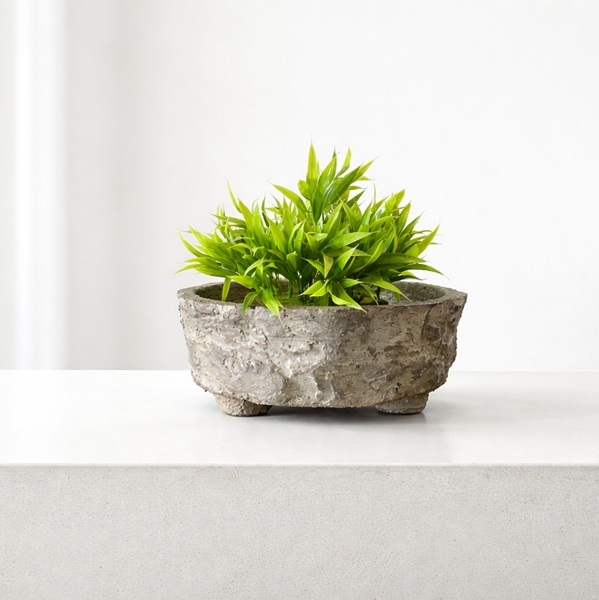
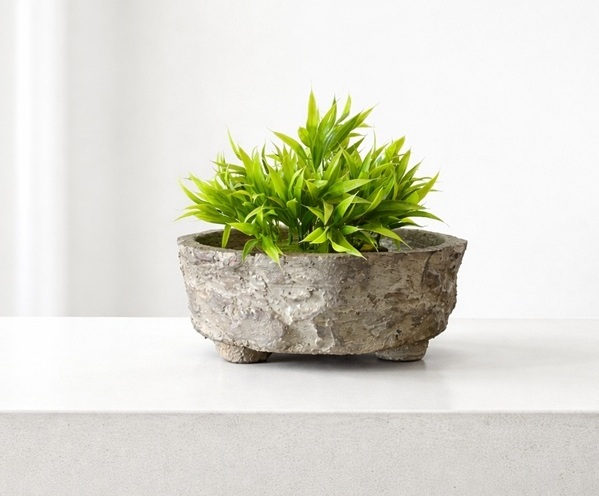
Add bespoke products

Changed region(s): [[0.0, 0.1815, 1.0, 0.8468], [0.601, 0.998, 0.6311, 1.0]]

diff --git a/index.html b/index.html
@@ -106,6 +106,14 @@
                 >Bespoke</a
               >
             </li>
+            <li class="nav-item">
+              <a
+                class="nav-link text-capitalize alt-font"
+                role="menuitem"
+                href="#footer"
+                >Contact</a
+              >
+            </li>
           </ul>
         </div>
         <div class="nav-icon d-flex gap-4" role="search">
@@ -659,7 +667,7 @@
       </section>
 
       <!-- Bespoke Creations -->
-      <section class="bespoke bg-section section-padding" id="bespoke">
+      <section class="home-decor bg-section section-padding" id="bespoke">
         <div class="container py-5 px-5">
           <div class="row justify-content-center">
             <div class="main-title text-center mb-5">
@@ -668,36 +676,15 @@
             </div>
           </div>
 
-          <div class="row d-flex justify-content-evenly g-4">
+          <div class="row d-flex justify-content-evenly g-4 section-padding">
             <div class="col-lg-4 col-md-6 col-12">
               <div
                 class="home-decor-content d-flex pb-4 pb-lg-0 justify-content-center gap-5"
               >
                 <div class="card h-100">
-                  <div
-                    class="card-footer d-flex justify-content-between align-items-center"
-                  >
-                    <div class="head-decor-date">
-                      <a href="#"
-                        ><h6 class="text-sec-color m-0 text-small">
-                          24 February 2020
-                        </h6></a
-                      >
-                    </div>
-                    <div class="head-decor-icon d-flex gap-3 text-extra-small">
-                      <a href="#"
-                        ><span><i class="fa-regular fa-heart"></i> 28</span></a
-                      >
-                      <a href="#"
-                        ><span
-                          ><i class="fa-regular fa-comment"></i> 52</span
-                        ></a
-                      >
-                    </div>
-                  </div>
                   <div class="middle-img position-relative">
                     <img
-                      src="./imgs/blog-img84.jpg"
+                      src="./cimgs/housename.jpg"
                       class="img-fluid"
                       alt="Furniture"
                     />
@@ -726,30 +713,10 @@
                 class="home-decor-content d-flex pb-4 pb-lg-0 justify-content-center gap-5"
               >
                 <div class="card h-100">
-                  <div
-                    class="card-footer d-flex justify-content-between align-items-center"
-                  >
-                    <div class="head-decor-date">
-                      <a href="#"
-                        ><h6 class="text-sec-color m-0 text-small">
-                          10 February 2020
-                        </h6></a
-                      >
-                    </div>
-                    <div class="head-decor-icon d-flex gap-3 text-extra-small">
-                      <a href="#"
-                        ><span><i class="fa-regular fa-heart"></i> 28</span></a
-                      >
-                      <a href="#"
-                        ><span
-                          ><i class="fa-regular fa-comment"></i> 40</span
-                        ></a
-                      >
-                    </div>
-                  </div>
+
                   <div class="middle-img position-relative">
                     <img
-                      src="./imgs/blog-img183.jpg"
+                      src="./cimgs/furniture.jpg"
                       class="img-fluid"
                       alt="Furniture"
                     />
@@ -776,30 +743,9 @@
                 class="home-decor-content d-flex pb-4 pb-lg-0 justify-content-center gap-5"
               >
                 <div class="card h-100">
-                  <div
-                    class="card-footer d-flex justify-content-between align-items-center"
-                  >
-                    <div class="head-decor-date">
-                      <a href="#"
-                        ><h6 class="text-sec-color m-0 text-small">
-                          18 January 2020
-                        </h6></a
-                      >
-                    </div>
-                    <div class="head-decor-icon d-flex gap-3 text-extra-small">
-                      <a href="#"
-                        ><span><i class="fa-regular fa-heart"></i> 30</span></a
-                      >
-                      <a href="#"
-                        ><span
-                          ><i class="fa-regular fa-comment"></i> 42</span
-                        ></a
-                      >
-                    </div>
-                  </div>
                   <div class="middle-img position-relative">
                     <img
-                      src="./imgs/blog-img86.jpg"
+                      src="./cimgs/fountain.jpg"
                       class="img-fluid"
                       alt="Furniture"
                     />
@@ -822,6 +768,99 @@
               </div>
             </div>
           </div>
+
+          <div class="row d-flex justify-content-evenly g-4">
+            <div class="col-lg-4 col-md-6 col-12">
+              <div
+                class="home-decor-content d-flex pb-4 pb-lg-0 justify-content-center gap-5"
+              >
+                <div class="card h-100">
+                  <div class="middle-img position-relative">
+                    <img
+                      src="./cimgs/canon.jpg"
+                      class="img-fluid"
+                      alt="Furniture"
+                    />
+                    <div class="middle-div alt-font">
+                      <a href="#"
+                        ><span class="text-uppercase">FURNITURE</span></a
+                      >
+                    </div>
+                  </div>
+                  <div class="card-body my-3">
+                    <a href="#"
+                      ><h5 class="card-title text-sec-color d-block alt-font">
+                        Simple wall decor inspiration saturdays style
+                      </h5></a
+                    >
+                    <p>
+                      Lorem ipsum is simply dummy text of printing and
+                      typesetting industry lorem ipsum been dummy...
+                    </p>
+                  </div>
+                </div>
+              </div>
+            </div>
+            <div class="col-lg-4 col-md-6 col-12">
+              <div
+                class="home-decor-content d-flex pb-4 pb-lg-0 justify-content-center gap-5"
+              >
+                <div class="card h-100">
+                  <div class="middle-img position-relative">
+                    <img
+                      src="./cimgs/concreteballs.jpg"
+                      class="img-fluid"
+                      alt="Furniture"
+                    />
+                    <div class="middle-div alt-font">
+                      <a href="#"><span class="text-uppercase">Decor</span></a>
+                    </div>
+                  </div>
+                  <div class="card-body my-3">
+                    <a href="#"
+                      ><h5 class="card-title text-sec-color d-block alt-font">
+                        Computers are to design as microwaves are to cooking
+                      </h5></a
+                    >
+                    <p>
+                      Lorem ipsum is simply dummy text of printing and
+                      typesetting industry lorem ipsum been dummy...
+                    </p>
+                  </div>
+                </div>
+              </div>
+            </div>
+            <div class="col-lg-4 col-md-6 col-12">
+              <div
+                class="home-decor-content d-flex pb-4 pb-lg-0 justify-content-center gap-5"
+              >
+                <div class="card h-100">
+                  <div class="middle-img position-relative">
+                    <img
+                      src="./cimgs/boat.jpg"
+                      class="img-fluid"
+                      alt="Furniture"
+                    />
+                    <div class="middle-div alt-font">
+                      <a href="#"><span class="text-uppercase">Design</span></a>
+                    </div>
+                  </div>
+                  <div class="card-body my-3">
+                    <a href="#"
+                      ><h5 class="card-title text-sec-color d-block alt-font">
+                        Fashion and interior design are one and the same
+                      </h5></a
+                    >
+                    <p>
+                      Lorem ipsum is simply dummy text of printing and
+                      typesetting industry lorem ipsum been dummy...
+                    </p>
+                  </div>
+                </div>
+              </div>
+            </div>
+          </div>
+          
         </div>
       </section>
 
@@ -830,6 +869,7 @@
         class="footer section-padding pb-5"
         role="contentinfo"
         aria-label="Contact information"
+        id="footer"
       >
         <div class="container px-5">
           <div class="row">
@@ -851,10 +891,8 @@
                 >Company</span
               >
               <ul class="ps-0">
-                <li class="mb-3"><a href="#">About company</a></li>
-                <li class="mb-3"><a href="#">Company services</a></li>
-                <li class="mb-3"><a href="#">Job opportunities</a></li>
-                <li class="mb-3"><a href="#">Contact us</a></li>
+                <li class="mb-3"><a href="#about">About company</a></li>
+                <li class="mb-3"><a href="#specialization">Company services</a></li>
               </ul>
             </div>
 
@@ -864,16 +902,16 @@
                 >Get in touch</span
               >
               <p class="mb-4">
-                27 Eden walk eden centre,<br />Orchard view, Paris, France
+                Whitefield, Bangalore
               </p>
               <span class="mb-3">
                 <i class="fa-solid fa-phone-volume icon-very-small"></i>
-                <a href="tel:+12345678910">+1 234 567 8910</a></span
+                <a href="tel:+916361091283">+91 636 109 1283</a></span
               >
               <span>
                 <i class="fa-solid fa-envelope-open-text icon-very-small"></i>
-                <a href="mailto:info@yourdomain.com"
-                  >info@yourdomain.com</a
+                <a href="mailto:concreteideas.sales@gmail.com"
+                  >concreteideas.sales@gmail.com</a
                 ></span
               >
             </div>
@@ -917,16 +955,14 @@
               <div class="col-md-3 mb-4 mb-lg-0 text-center text-md-start">
                 <img
                   class="d-inline"
-                  src="./imgs/logo-white2x.png"
+                  src="./cimgs/logo_white.png"
                   alt="Footer Logo"
                 />
               </div>
               <div class="col-md-6 mb-4 mb-lg-0 text-center">
                 <p class="mb-0">
-                  &copy; 2024 Litho is Proudly Powered by
-                  <a href="https://github.com/Ahmed-Elrashidii"
-                    >Ahmed Elrashidii</a
-                  >
+                  &copy; 2026 | Concrete Ideas
+
                 </p>
               </div>
               <div class="col-md-3 text-md-end">
